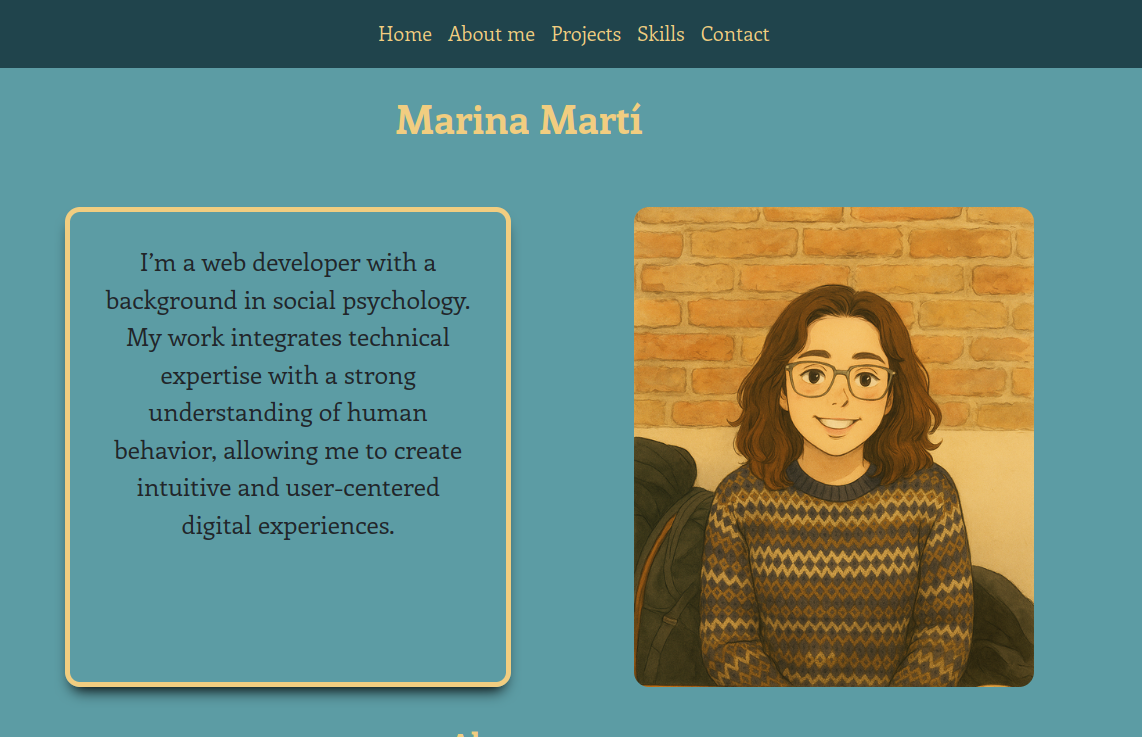
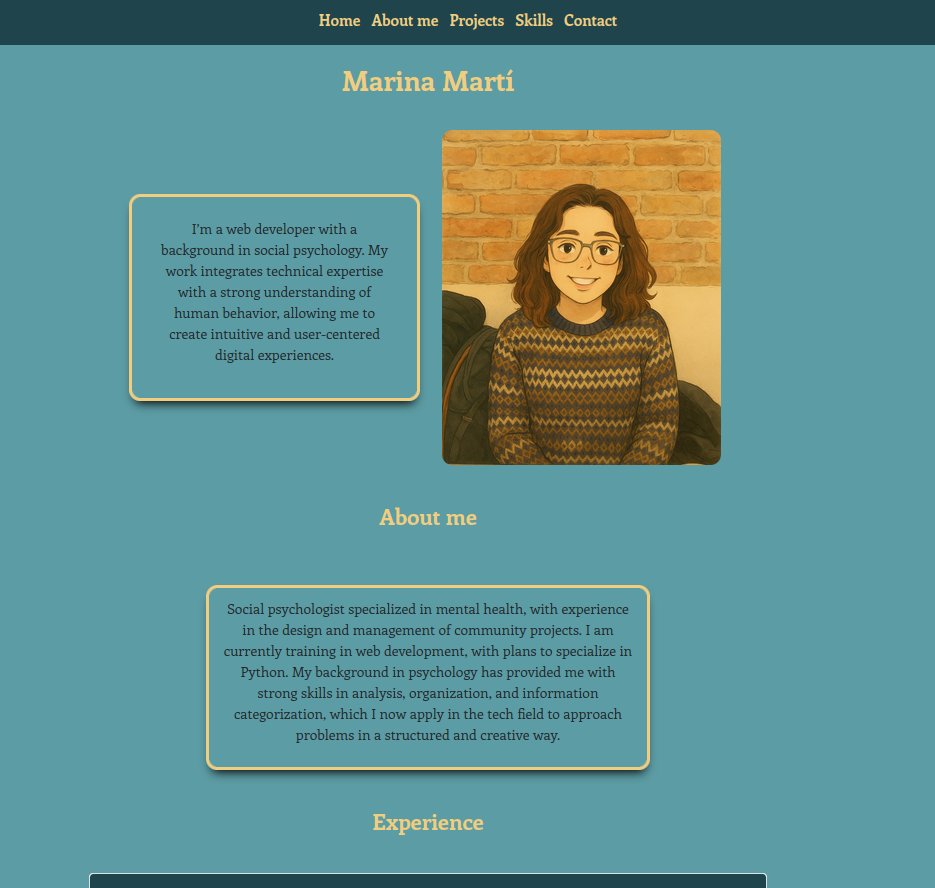
feat: align elements

diff --git a/src/page/contact.html b/src/page/contact.html
@@ -42,36 +42,33 @@
             </div>
         </nav>
     </header>
-    <main>
-        <h2>Contact me!</h2>
-            <div class="container">
-                <div class="row justify-content-center g-4 column-presentation">
+    <main class="py-5">
+    <div class="container">
+        <h2 class="text-center mb-5">Contact me!</h2>
 
-                    <div class="col-md-3">
-                        <div class="card contact1" style="width: 18rem;">
-                            <div class="card-body text-center">
-                                <h3 class="card-title">My GitHub</h3>
-                                <p>github.com/mmarti22</p>
-                                <a href="https://github.com/mmarti22" class="btn btn-outline-warning" role="button">GitHub</a>
-                                
-                            </div>
-                        </div>
+        <div class="row justify-content-center g-4">
+            <div class="col-md-4 col-lg-3">
+                <div class="card contact1 mx-auto" style="width: 18rem;">
+                    <div class="card-body text-center">
+                        <h3 class="card-title">My GitHub</h3>
+                        <p>github.com/mmarti22</p>
+                        <a href="https://github.com/mmarti22" class="btn btn-outline-warning" role="button">GitHub</a>
                     </div>
-
-                    <div class="col-md-3">
-                        <div class="card contact1" style="width: 18rem;">
-                            <div class="card-body text-center">
-                                <h3 class="card-title">E-mail me!</h3>
-                                <p>marina.marti.sierra@gmail.com</p>
-                                <a href="mailto:marina.marti.sierra@gmail.com" class="btn btn-outline-warning"
-                                    role="button">Gmail</a>
-                            </div>
-                        </div>
-                    </div>
-
                 </div>
             </div>
-    </main>
+
+            <div class="col-md-4 col-lg-3">
+                <div class="card contact1 mx-auto" style="width: 18rem;">
+                    <div class="card-body text-center">
+                        <h3 class="card-title">E-mail me!</h3>
+                        <p>marina.marti.sierra@gmail.com</p>
+                        <a href="mailto:marina.marti.sierra@gmail.com" class="btn btn-outline-warning" role="button">Gmail</a>
+                    </div>
+                </div>
+            </div>
+        </div>
+    </div>
+</main>
 
 
 

diff --git a/index.html b/index.html
@@ -81,9 +81,7 @@
                         <div class="card contact2 h-100 mx-auto" style="max-width: 100%;">
                             <div class="card-bodyz">
                                 <p>
-                                    I’m a web developer with a background in social psychology. My work integrates technical
-                                    expertise with a strong understanding of human behavior, allowing me to create intuitive and
-                                    user-centered digital experiences.
+                                    Social psychologist specialized in mental health, with experience in the design and management of community projects. I am currently training in web development, with plans to specialize in Python. My background in psychology has provided me with strong skills in analysis, organization, and information categorization, which I now apply in the tech field to approach problems in a structured and creative way.
                                 </p>
                             </div>
                         </div>
